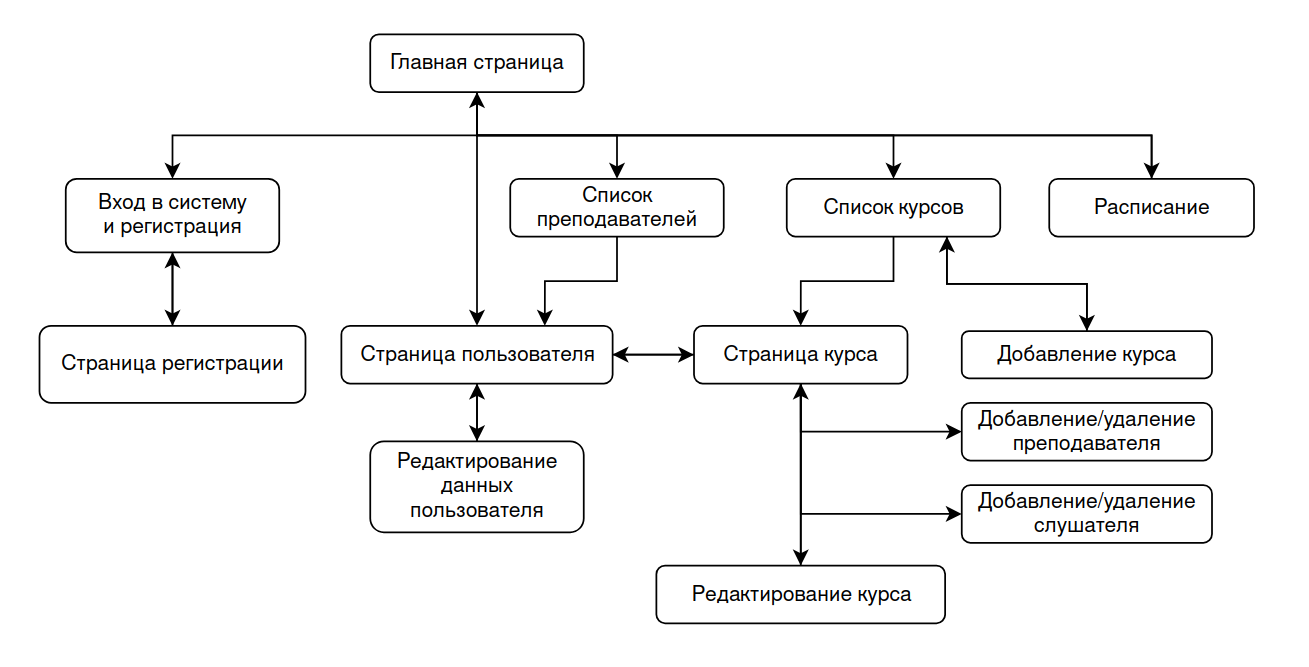
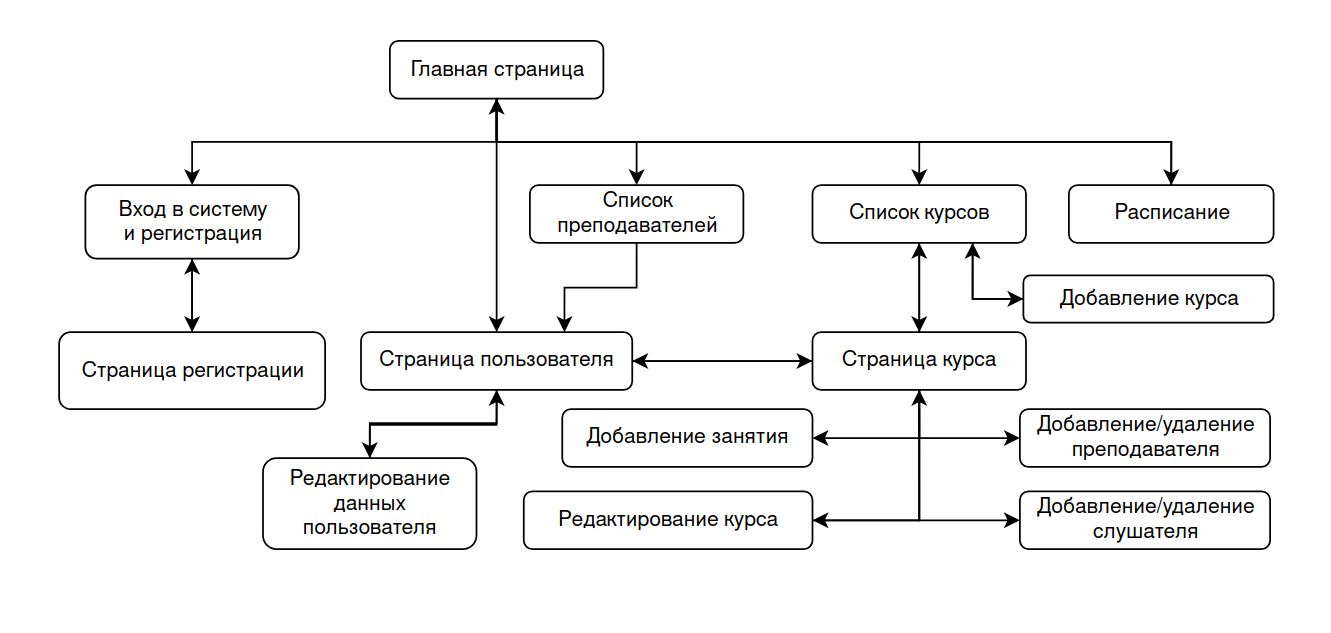
add new Page

Changed region(s): [[0.0306, 0.03, 0.9778, 0.9005], [0.5195, 0.9305, 0.7028, 0.9605]]

diff --git a/README.md b/README.md
@@ -43,6 +43,11 @@
     * Расписание занятий по курсу в виде списка записей вида:\
     <начало> - <конец>: <тема занятия>
     * Список слушателей
+8. **Добавление занятия**
+    * Поле для ввода времени начала занятия
+    * Поле для ввода времени окончания занятия
+    * Поле для ввода темы занятия
+    * Кнопка "Добавить"
 8. **Добавление курса**
     * Поле для ввода названия курса
     * Поле для ввода описания курса
@@ -73,10 +78,10 @@
 ## Сценарии использования:
 1. **Получение списка всех преподавателей, зарегистрированных в системе**
     * Пользователь заходит на сайт и попадает на главную страницу. С этой страницы он переходит на страницу
-      "Список преподавателей"
+      "Список преподавателей".
 2. **Получение списка всех курсов**
     * Пользователь заходит на сайт и попадает на главную страницу. С этой страницы он переходит на страницу
-      "Список курсов"
+      "Список курсов".
 3. **Добавление курса**
     * Пользователь заходит на сайт и попадает на главную страницу. С этой страницы он переходит на страницу
       "Список курсов".
@@ -104,9 +109,10 @@
       "Редактирование курса".
     * На странице "Редактирование курса" пользователь изменяет информацию по курсу и нажимает кнопку "Сохранить".
 8. **Добавление занятия для курса**
-    * На странице "Список курсов" пользователь выбирает интересующих его курс и заходит на его страницу.
-    * Далее на "Странице курса" пользователь нажимает кнопку "Добавить занятие", заполняет форму информацией о занятии:
-      время начала, время окончание, тема. После чего нажимает кнопку "Сохранить".
+    * На странице "Список курсов" пользователь выбирает интересующий его курс и заходит на его страницу.
+    * Далее на "Странице курса" пользователь нажимает кнопку "Добавить занятие", после чего переходит на страницу
+      "Добавление занятия" и заполняет форму информацией о занятии:
+      время начала, время окончание, тема. После чего нажимает кнопку "Добавить".
 9. **Просмотр расписания пользователя**
     * Пользователь заходит на сайт и попадает на главную страницу. С этой страницы он переходит на страницу
       "Расписание".
